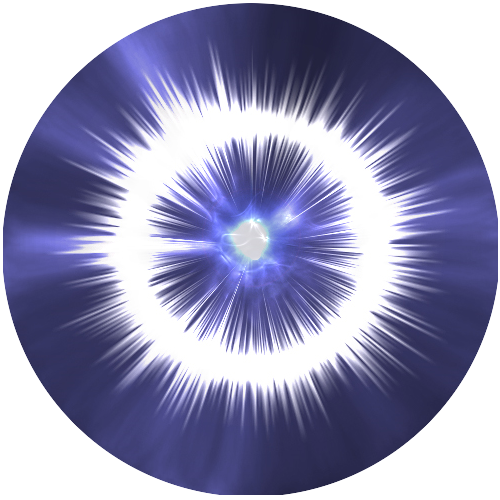
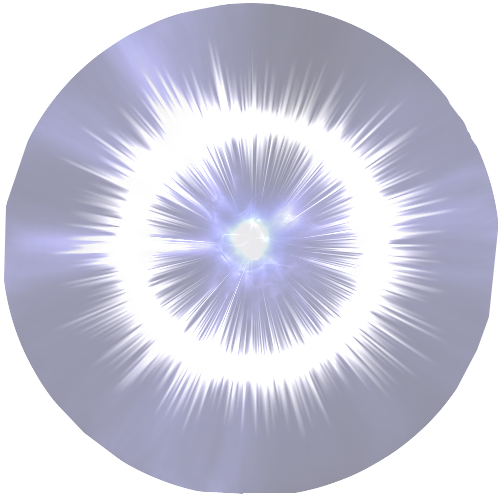
Discharge animation working

diff --git a/Charge/Charge/ChargeMain.cs b/Charge/Charge/ChargeMain.cs
@@ -315,9 +315,7 @@ namespace Charge
                 {
                     ent.Draw(spriteBatch);
                 }
-
-
-
+                
 				//Draw the player
 				player.Draw(spriteBatch);
 
@@ -492,16 +490,8 @@ namespace Charge
 
             player.DecCharge(GameplayVars.DischargeCost);
 
-            //Remove all enemies in front of player
-            for (int i = 0; i < enemies.Count; i++ )
-            {
-                Enemy enemy = enemies[i];
-                if (enemy.position.Left > player.position.Right)
-                {
-                    enemies.RemoveAt(i);
-                    i--;
-                }
-            }
+            DischargeAnimation discharge = new DischargeAnimation(new Rectangle(player.position.Left, player.position.Top, player.position.Width, player.position.Width), DischargeTex);
+            otherEnts.Add(discharge);
 
             globalCooldown = GameplayVars.DischargeCooldownTime;
         }
@@ -657,8 +647,6 @@ namespace Charge
                     i--;
                 }
             }
-
-
         }
 
         /// <summary>
@@ -671,6 +659,7 @@ namespace Charge
             CheckPlayerEnemyCollisions();
             CheckPlayerWallCollisions();
             CheckPlayerBarrierCollisions();
+            CheckEnemyDischargeBlastCollisions();
         }
 
         /// <summary>
@@ -757,10 +746,27 @@ namespace Charge
                     }
                     else
                     {
-                    PlayerDeath();
+                        PlayerDeath();
+                    }
                 }
             }
         }
+
+        /// <summary>
+        /// Kill enemies as the discharge blast collides with them
+        /// </summary>
+        public void CheckEnemyDischargeBlastCollisions()
+        {
+            foreach (WorldEntity enemy in enemies)
+            {
+                foreach (WorldEntity effect in otherEnts)
+                {
+                    if (effect is DischargeAnimation && effect.position.Intersects(enemy.position))
+                    {
+                        enemy.destroyMe = true;
+                    }
+                }
+            }
         }
 
         /// <summary>
